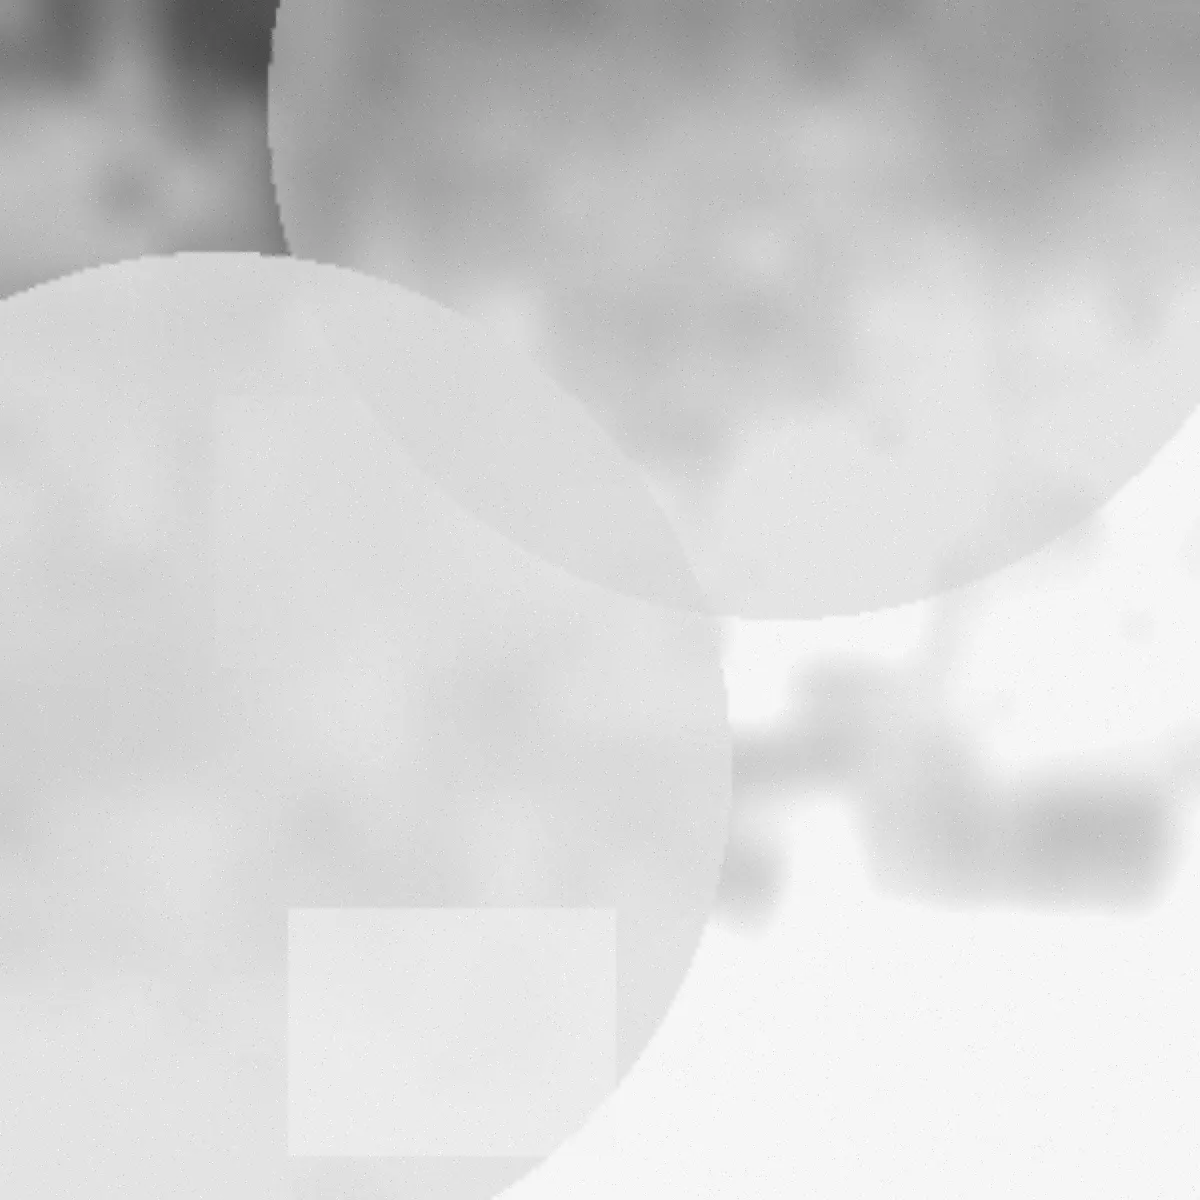
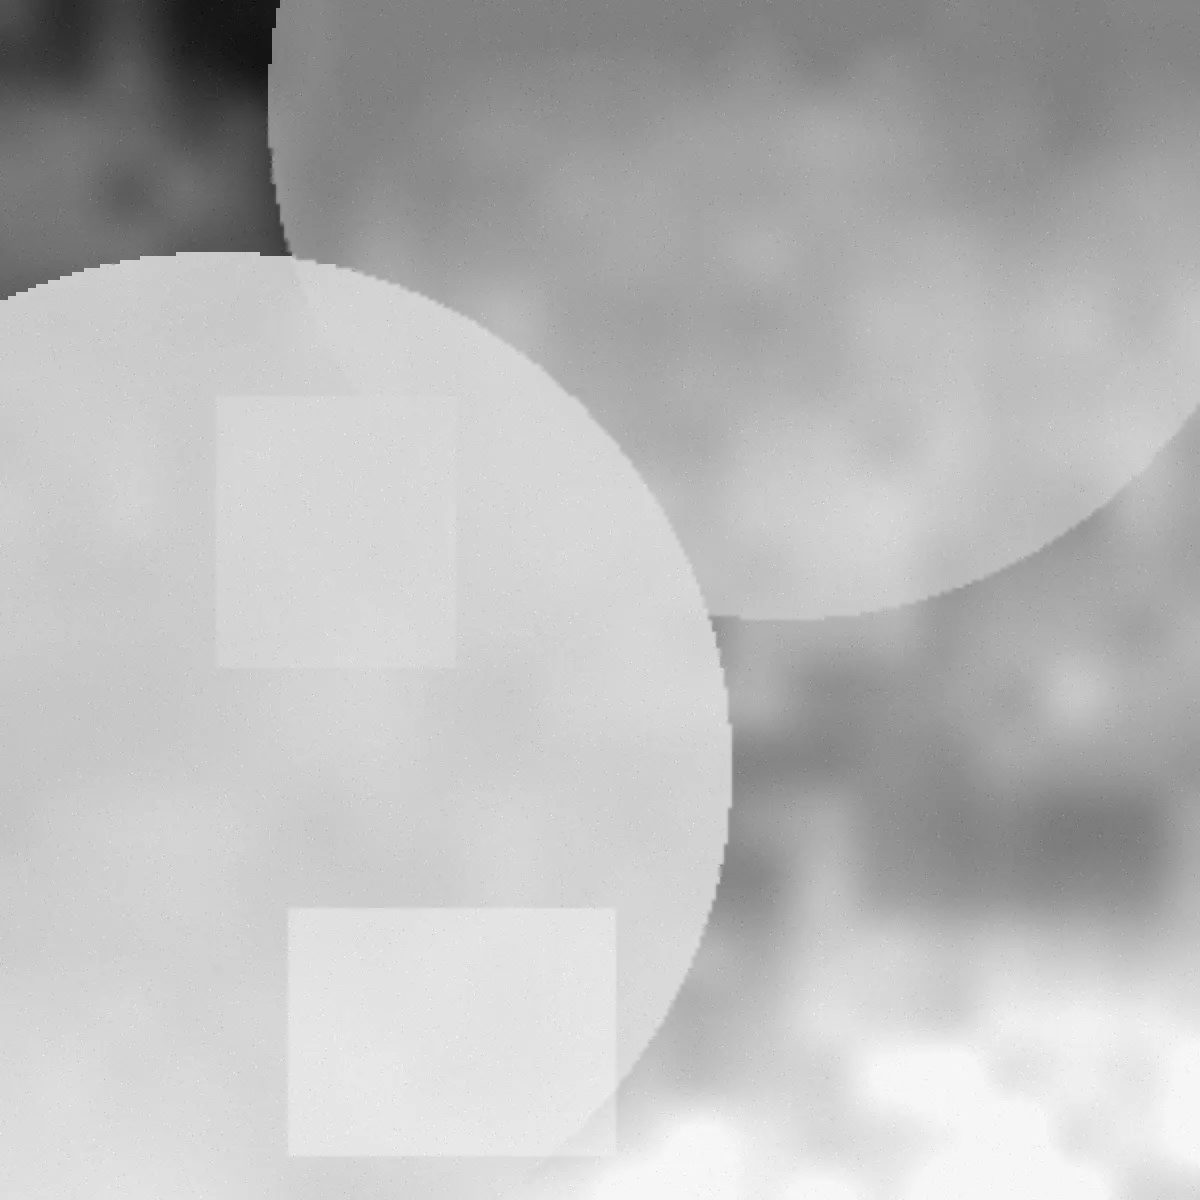
fix: even contrast in the Agency images

diff --git a/tools/make-plates.php b/tools/make-plates.php
@@ -52,6 +52,8 @@ for ( $i = 1; $i <= $count; $i++ ) {
 	mt_srand( $n * 101 );
 	$angle = mt_rand( 0, 628 ) / 100; $dx = cos( $angle ); $dy = sin( $angle );
 	$bands = mt_rand( 0, 1 );
+	$field = array();
+	$all   = array();
 	for ( $y = 0; $y < $s; $y++ ) {
 		for ( $x = 0; $x < $s; $x++ ) {
 			$v = 0.55 * $o1[ $y ][ $x ] + 0.3 * $o2[ $y ][ $x ] + 0.15 * $o3[ $y ][ $x ];
@@ -59,7 +61,18 @@ for ( $i = 1; $i <= $count; $i++ ) {
 			if ( $bands ) {
 				$v = $v + 0.08 * sin( $v * 40 );
 			}
-			$v = max( 0, min( 1, ( $v - 0.25 ) * 1.5 ) );
+			$field[ $y ][ $x ] = $v;
+			$all[]             = $v;
+		}
+	}
+	// Stretch the 2nd to 98th percentile to the full range so every plate keeps real mid-tone variation.
+	sort( $all );
+	$lo   = $all[ (int) ( count( $all ) * 0.02 ) ];
+	$hi   = $all[ (int) ( count( $all ) * 0.98 ) ];
+	$span = max( 0.0001, $hi - $lo );
+	for ( $y = 0; $y < $s; $y++ ) {
+		for ( $x = 0; $x < $s; $x++ ) {
+			$v = max( 0, min( 1, ( $field[ $y ][ $x ] - $lo ) / $span ) );
 			$g = (int) ( 20 + $v * 225 );
 			imagesetpixel( $im, $x, $y, ( $g << 16 ) | ( $g << 8 ) | $g );
 		}

diff --git a/tests/test-agency.php b/tests/test-agency.php
@@ -80,4 +80,29 @@ for ( $i = 1; $i <= 12; $i++ ) {
 	pg_assert( file_exists( $img_path ) && filesize( $img_path ) <= 150 * 1024, "$img_rel is at most 150 KB" );
 }
 
+// Agency images keep real mid-tone variation (not washed out, not near-black).
+for ( $i = 1; $i <= 12; $i++ ) {
+	$img_rel  = sprintf( 'assets/images/agency-%02d.webp', $i );
+	$img_path = get_parent_theme_file_path( $img_rel );
+	$src      = file_exists( $img_path ) ? imagecreatefromwebp( $img_path ) : false;
+	$sd       = 0;
+	if ( $src ) {
+		$small = imagecreatetruecolor( 100, 100 );
+		imagecopyresampled( $small, $src, 0, 0, 0, 0, 100, 100, 1200, 1200 );
+		$vals = array();
+		for ( $py = 0; $py < 100; $py++ ) {
+			for ( $px = 0; $px < 100; $px++ ) {
+				$vals[] = imagecolorat( $small, $px, $py ) & 0xFF;
+			}
+		}
+		$mean = array_sum( $vals ) / count( $vals );
+		$var  = 0;
+		foreach ( $vals as $val ) {
+			$var += ( $val - $mean ) ** 2;
+		}
+		$sd = sqrt( $var / count( $vals ) );
+	}
+	pg_assert( $sd >= 35, sprintf( '%s luminance stddev is at least 35 (got %.1f)', $img_rel, $sd ) );
+}
+
 pg_done();
